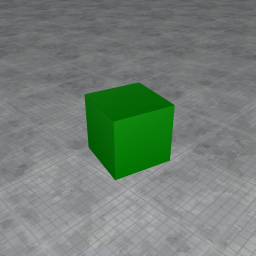
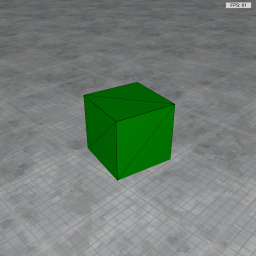
Updated WireframeMaterialSample

diff --git a/Samples/SeeingSharp.SampleContainer/Basics3D/_09_WireframeMaterial/WireframeMaterialSample.cs b/Samples/SeeingSharp.SampleContainer/Basics3D/_09_WireframeMaterial/WireframeMaterialSample.cs
@@ -78,8 +78,8 @@ namespace SeeingSharp.SampleContainer.Basics3D._09_WireframeMaterial
             var camera = mainOrChildRenderLoop.Camera;
 
             // ConfigureLoading camera
-            camera.Position = new Vector3(3f, 1f, 3f);
-            camera.Target = new Vector3(0f, 1.2f, 0f);
+            camera.Position = new Vector3(3f, 3f, 3f);
+            camera.Target = new Vector3(0f, 0.5f, 0f);
             camera.UpdateCamera();
 
             // Append camera behavior
